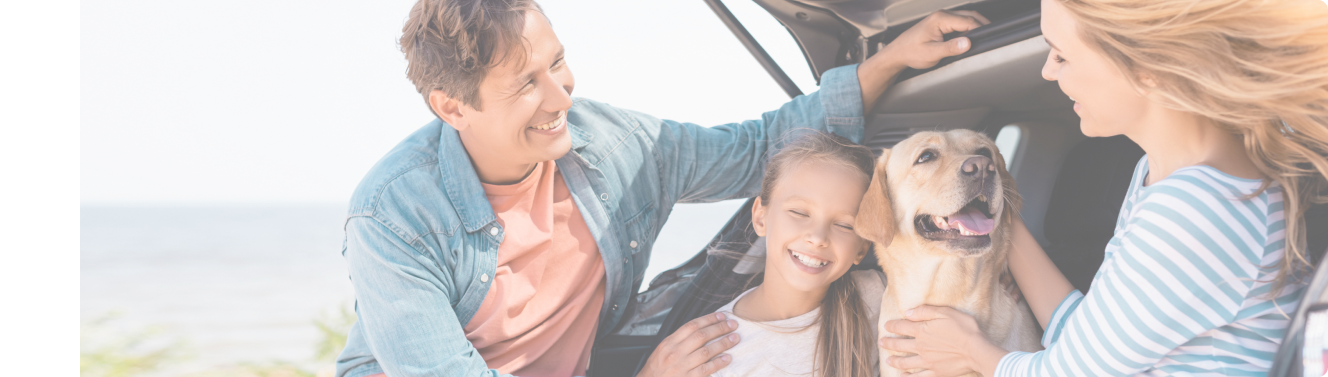
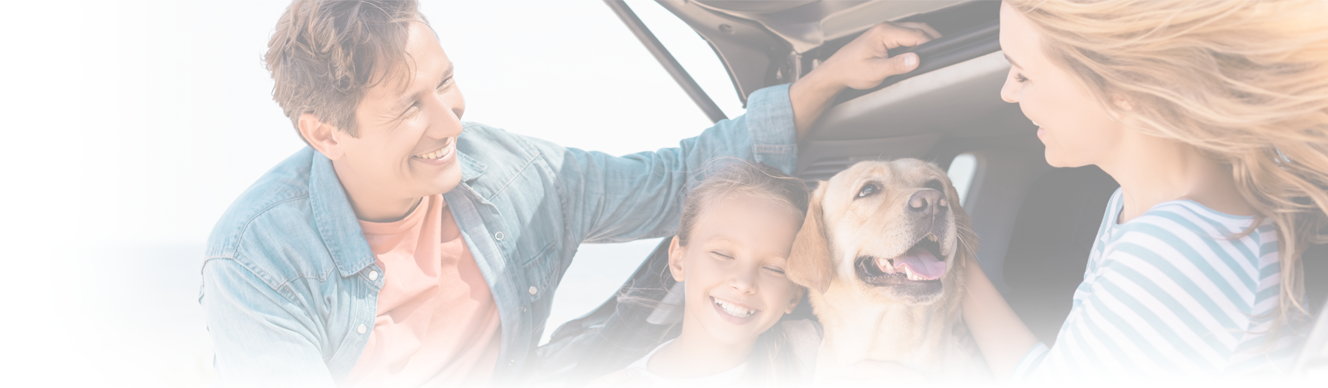
Libreria de banderas y update de imagen portada

diff --git a/pages/agregar-beneficiarios/index.js b/pages/agregar-beneficiarios/index.js
@@ -1,0 +1,12 @@
+import Layout from '@/components/layouts/Layout'
+import CMP013 from '@/components/contenedores/CMP013'
+
+export default function TipoPlan() {
+	return (
+		<>
+			<Layout title="Datos Personales - Autoafiliacion" bg={1}>
+				<CMP013 text="test" />
+			</Layout>
+		</>
+	)
+}
